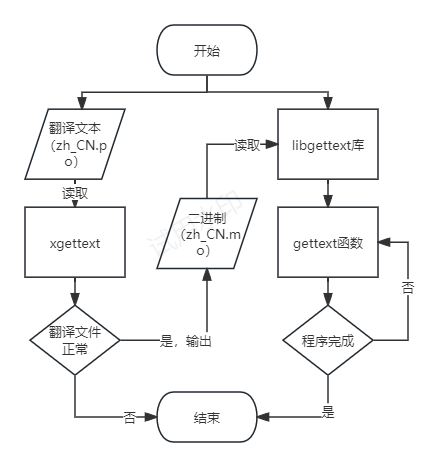
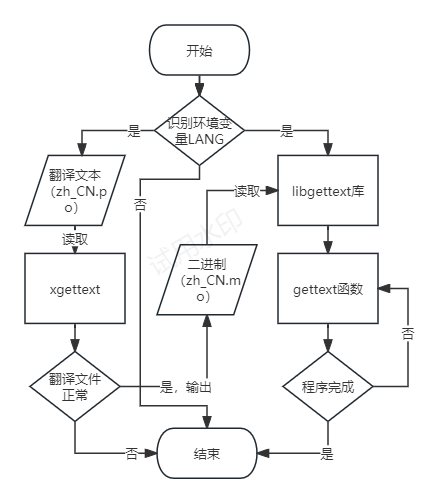
保留字符串后面的空格符号; 隐藏哈希表细节。

diff --git a/README.md b/README.md
@@ -15,8 +15,6 @@ fpm run --example example_read
 
 ## TODO
 
-* 保留字符串后面的空格符号，需要使用其它符号标记。
-* 隐藏哈希表细节。
 * 识别环境变量 LANG。
 
 ## 存在的问题
